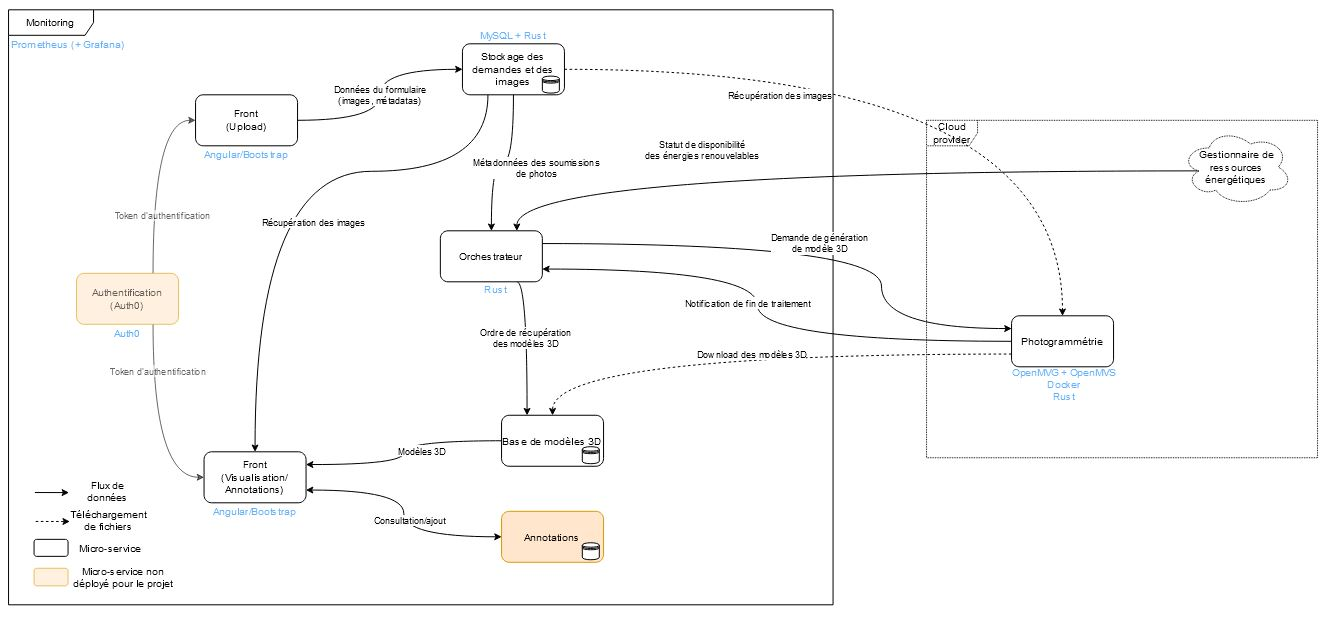
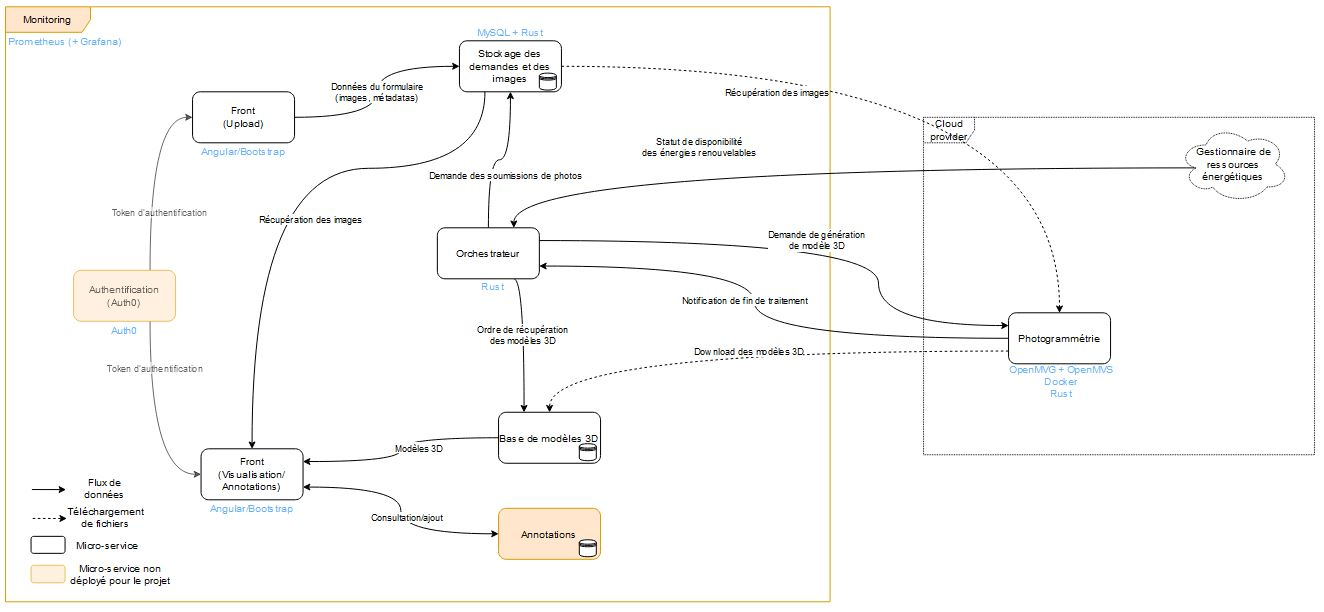
describing architecture

diff --git a/README.md b/README.md
@@ -9,3 +9,10 @@ This project's goal is to use micro-services to generate 3D-models of climbing w
 The project is composed of multiple micro-services as shown in the following architecture diagram :
 
 ![Architecture diagram](docs/img/architecture_diagram.JPG)
+
+The users acces the application from the front service that allows them to request a generation of a 3D model by uploading photos of climbing walls to a [database](https://github.com/magnesie/magnesie-image-storage).
+
+The heart of the application is the [orchestrator](https://github.com/magnesie/magnes-ie-orchestrateur-). This service can see when a generation request has been made, and add these requests to a buffer. Every 10 minutes, the orchestrator checks if any of the cloud providers it knows has available green energy. If so, it deploys a [photogrammetry service](https://github.com/magnesie/magnesie-photogrammetry) on this cloud provider's infrastructure if none are already deployed, and orders it to generate a 3D model using the photos of the request.
+
+When the photogrammetry service is done, it notifies the orchestrator, which contacts the [3D models database](https://github.com/magnesie/magnesie-result-storage) to make it download the newly generated model, so that users can visuzalize it with the [result front service](https://github.com/magnesie/magnesie-result-front).
+
